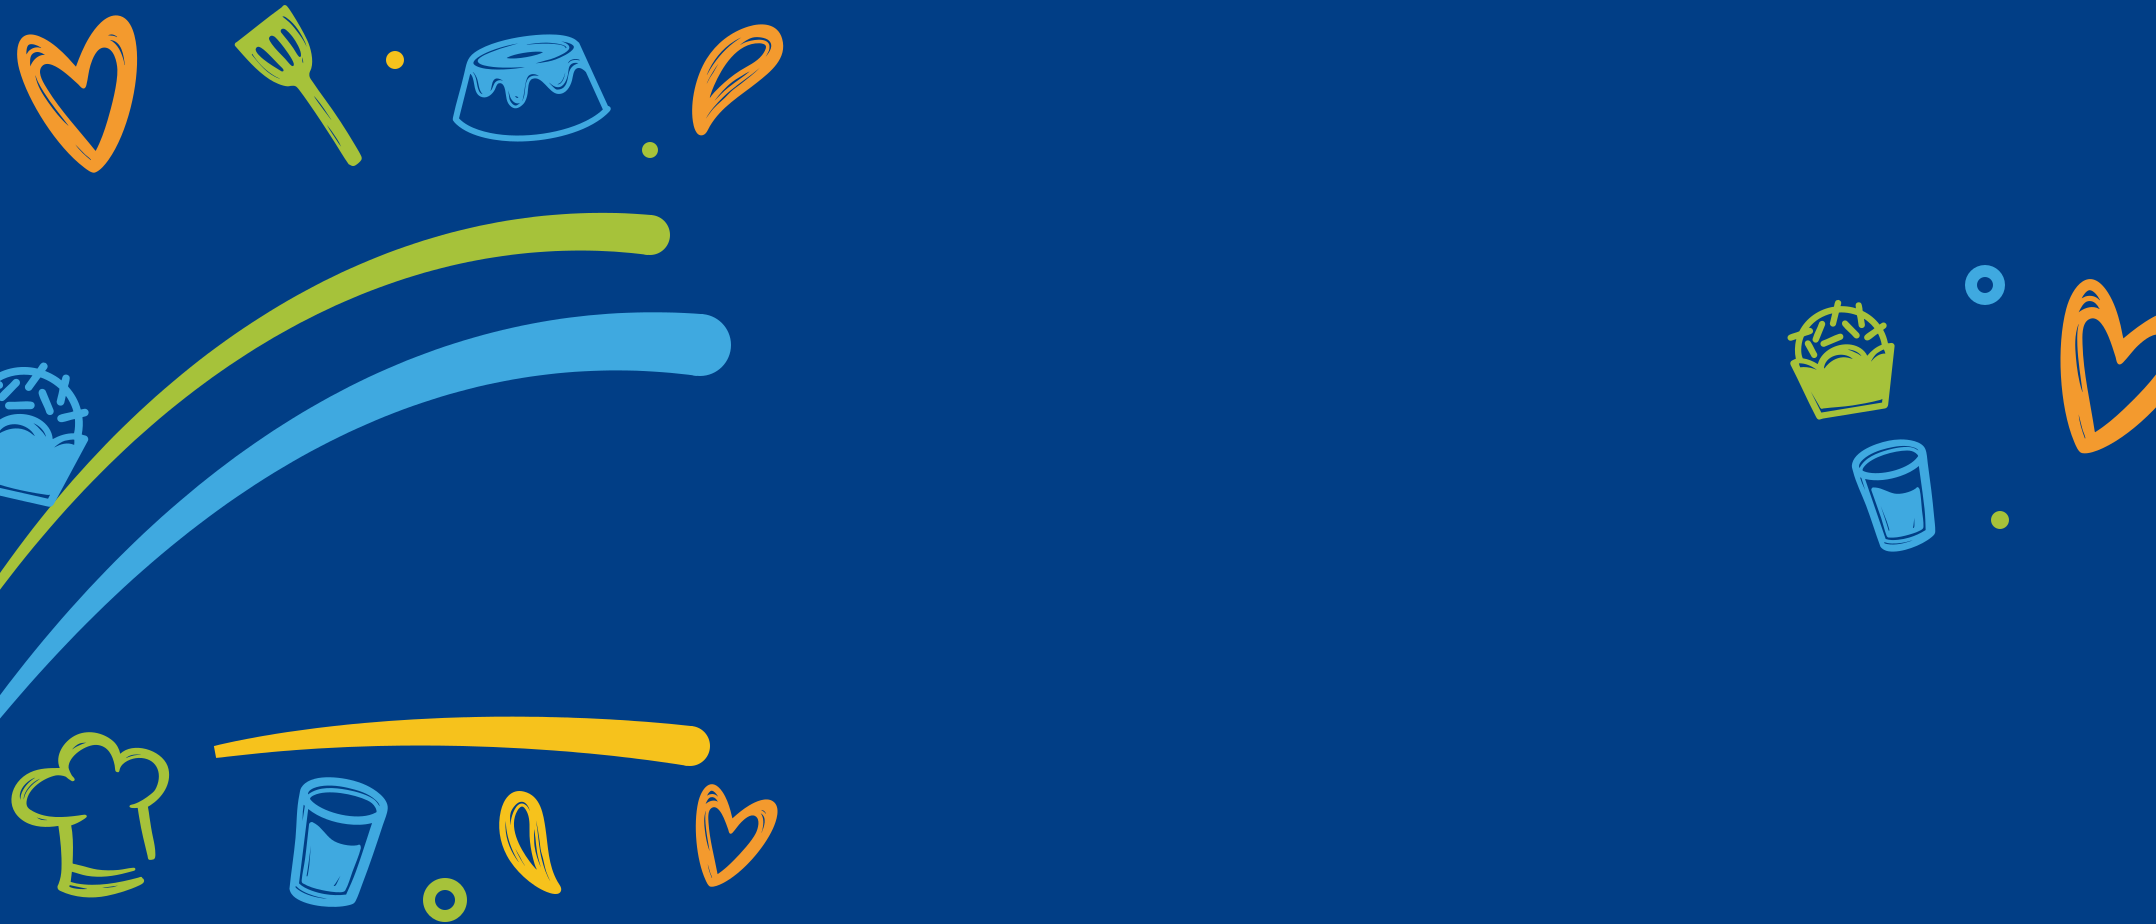
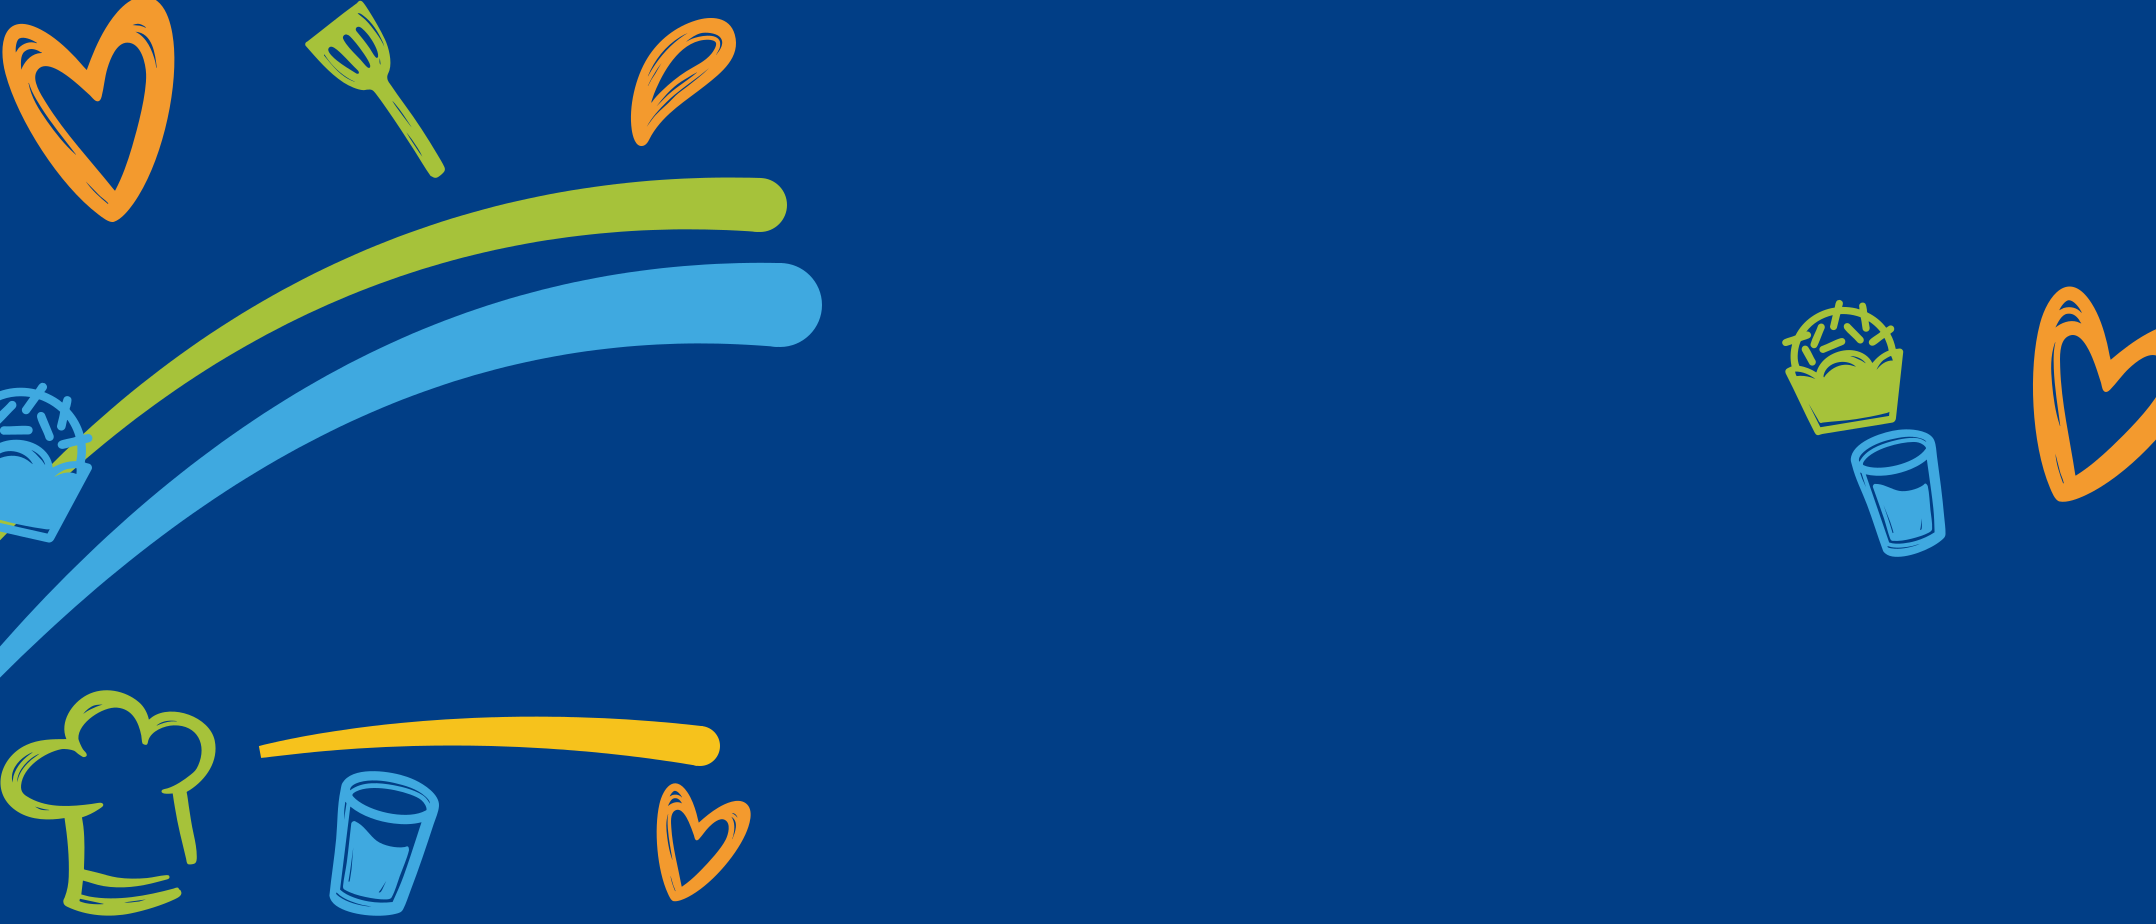
Damare: fundo D2 (onda contínua, rabiscos oficiais em tamanhos variados)
Claude-Session: https://claude.ai/code/session_019BU3hTgCpk5fe33hP4hyhu

diff --git a/ferramentas/fundo_damare_oficial.py b/ferramentas/fundo_damare_oficial.py
@@ -21,30 +21,25 @@ def icone(nome, x, y, h, rot, cor):
 
 def fundo():
     e = [f'<rect width="{W}" height="{H}" fill="{AZUL}"/>']
-    # onda dupla da logo atrás do produto (termina antes do texto)
-    e.append(pincel((-40, 640), (160, 330), (420, 210), (650, 235), 40, VERDE))
-    e.append(pincel((-40, 760), (200, 430), (460, 320), (700, 345), 62, CIANO))
+    # onda dupla da logo, faixa contínua por trás do topo do pacote (termina antes do texto)
+    e.append(pincel((-60, 600), (180, 300), (450, 190), (720, 200), 54, VERDE))
+    e.append(pincel((-60, 730), (220, 400), (460, 300), (690, 320), 84, CIANO))
     # pincelada amarela de apoio sob o queijo
-    e.append(pincel((215, 752), (360, 726), (540, 726), (690, 746), 40, AMARELO, 0.3))
-    # topo esquerdo
-    e.append(icone("coracao", 28, 22, 150, -14, LARANJA))
-    e.append(icone("espatula", 230, 8, 150, 8, VERDE))
-    e.append(icone("bolo", 450, 36, 105, -6, CIANO))
-    e.append(icone("gota", 700, 14, 130, 28, LARANJA))
-    e.append(ponto(395, 60, 9, AMARELO)); e.append(ponto(650, 150, 8, VERDE))
+    e.append(pincel((260, 752), (400, 726), (560, 726), (700, 746), 40, AMARELO, 0.3))
+    # topo esquerdo: um grande + dois médios
+    e.append(icone("coracao", 18, 6, 215, -14, LARANJA))
+    e.append(icone("espatula", 300, 4, 165, 8, VERDE))
+    e.append(icone("gota", 640, 6, 150, 28, LARANJA))
     # borda esquerda
-    e.append(icone("brigadeiro", -40, 360, 140, 12, CIANO))
-    # base esquerda
-    e.append(icone("chapeu", 14, 732, 165, -8, VERDE))
-    e.append(icone("copo", 290, 778, 130, 12, CIANO))
-    e.append(icone("gota", 505, 790, 110, -32, AMARELO))
-    e.append(icone("coracao", 690, 790, 100, 14, LARANJA))
-    e.append(g(argola(16), 445, 900, 1, 0, VERDE))
+    e.append(icone("brigadeiro", -50, 380, 155, 12, CIANO))
+    # base esquerda: chapéu grande + copo + coração pequeno
+    e.append(icone("chapeu", 4, 690, 225, -8, VERDE))
+    e.append(icone("copo", 330, 772, 145, 12, CIANO))
+    e.append(icone("coracao", 650, 790, 115, 14, LARANJA))
     # meio da borda direita (y 265-567, x > 1760)
-    e.append(icone("coracao", 2050, 290, 170, 16, LARANJA))
-    e.append(icone("brigadeiro", 1790, 300, 115, -10, VERDE))
-    e.append(icone("copo", 1860, 440, 110, -14, CIANO))
-    e.append(ponto(2000, 520, 9, VERDE)); e.append(g(argola(14), 1985, 285, 1, 0, CIANO))
+    e.append(icone("coracao", 2020, 300, 210, 16, LARANJA))
+    e.append(icone("brigadeiro", 1785, 300, 130, -10, VERDE))
+    e.append(icone("copo", 1860, 430, 125, -14, CIANO))
     return e
 
 
